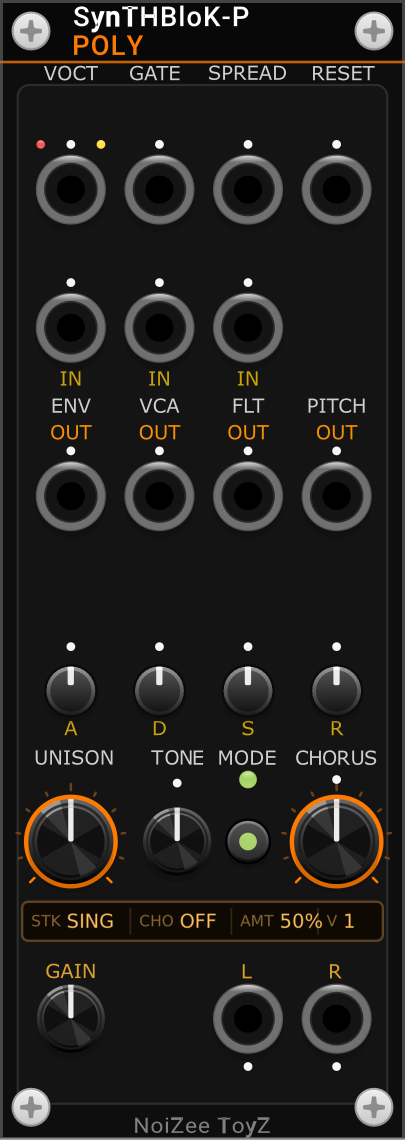
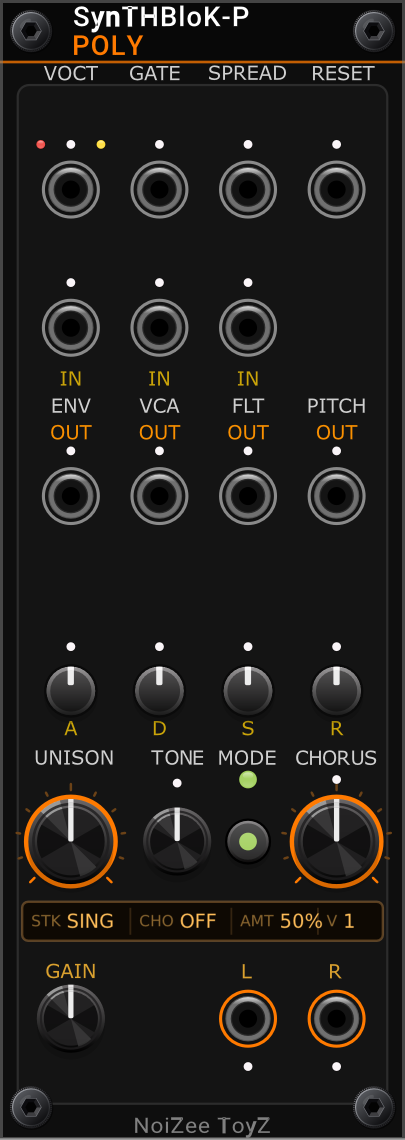
POLY 2.1.1: new jack rings (audio in gold, out orange, others grey)
Claude-Session: https://claude.ai/code/session_0118GTBMnkcZFkLwi5NoL91P

diff --git a/src/OledUi.hpp b/src/OledUi.hpp
@@ -16,18 +16,40 @@
 //    controls beside it (e.g. as tall as a knob's ring)
 #include "plugin.hpp"
 #include <string>
+#include <cmath>
+#include <algorithm>
 
 namespace oled {
 
 static const float kRow = 4.4f;      // info line height, mm
 static const float kCellH = 4.4f;    // button cell height, mm
 
-inline NVGcolor amber(int a = 255) { return nvgRGBA(255, 190, 90, a); }
-inline NVGcolor dim() { return nvgRGBA(255, 190, 90, 130); }
-inline NVGcolor green() { return nvgRGBA(120, 230, 90, 255); }
-inline NVGcolor outline(int a = 80) { return nvgRGBA(255, 180, 90, a); }
-inline NVGcolor litFill() { return nvgRGBA(255, 112, 15, 235); }
-inline NVGcolor offFill() { return nvgRGBA(40, 25, 8, 255); }
+// BACKDROP RECOLOUR step 2 (Nov 20 2026): BACKDROP can hand every NoiZee ToyZ screen its theme colour (off: the usual amber)
+struct Theme { bool on = false; float r = 1.f, g = 0.745f, b = 0.353f; float rot = 0.f, sat = 1.f; };   // (BLOX THEMES: rot / sat)
+inline Theme& theme() { static Theme t; return t; }
+inline NVGcolor accent(int a) { const Theme& t = theme(); return nvgRGBA((int) (t.r * 255.f), (int) (t.g * 255.f), (int) (t.b * 255.f), a); }
+// BLOX THEMES (Nov 20 2026): BLOX's colour turn (themes.js nzShiftRGB): hue + rot, saturation x sat; near-greys stay
+inline NVGcolor shift(NVGcolor c) {
+    const Theme& t = theme();
+    if (t.rot == 0.f && t.sat == 1.f) return c;
+    float R = c.r, G = c.g, B = c.b, mx = std::max(R, std::max(G, B)), mn = std::min(R, std::min(G, B)), l = (mx + mn) * 0.5f, d = mx - mn;
+    if (d < 0.04f) return c;
+    float sv = l > 0.5f ? d / (2.f - mx - mn) : d / (mx + mn), h;
+    if (mx == R) h = ((G - B) / d + (G < B ? 6.f : 0.f)) * 60.f; else if (mx == G) h = ((B - R) / d + 2.f) * 60.f; else h = ((R - G) / d + 4.f) * 60.f;
+    h = std::fmod(std::fmod(h + t.rot, 360.f) + 360.f, 360.f); sv = std::min(1.f, sv * t.sat);
+    float q = l < 0.5f ? l * (1.f + sv) : l + sv - l * sv, p = 2.f * l - q;
+    auto f = [&](float k) { k = k - std::floor(k); return k < 1.f / 6.f ? p + (q - p) * 6.f * k : k < 0.5f ? q : k < 2.f / 3.f ? p + (q - p) * (2.f / 3.f - k) * 6.f : p; };
+    return nvgRGBAf(f(h / 360.f + 1.f / 3.f), f(h / 360.f), f(h / 360.f - 1.f / 3.f), c.a);
+}
+// (BLOX THEMES on the MTX parts) colour makers that follow the BACKDROP theme
+inline NVGcolor tRGB(unsigned char r, unsigned char g, unsigned char b) { return shift(nvgRGB(r, g, b)); }
+inline NVGcolor tRGBA(unsigned char r, unsigned char g, unsigned char b, unsigned char a) { return shift(nvgRGBA(r, g, b, a)); }
+inline NVGcolor amber(int a = 255) { return shift(nvgRGBA(255, 190, 90, a)); }
+inline NVGcolor dim() { return shift(nvgRGBA(255, 190, 90, 130)); }
+inline NVGcolor green() { return shift(nvgRGBA(120, 230, 90, 255)); }
+inline NVGcolor outline(int a = 80) { return shift(nvgRGBA(255, 180, 90, a)); }
+inline NVGcolor litFill() { return shift(nvgRGBA(255, 112, 15, 235)); }
+inline NVGcolor offFill() { return shift(nvgRGBA(40, 25, 8, 255)); }
 inline NVGcolor ink() { return nvgRGBA(20, 10, 2, 255); }
 
 // The display body.
@@ -69,6 +91,23 @@ inline void midiLine(const widget::Widget::DrawArgs& args, midi::Port* port, con
 }
 
 // The port menu a MIDI line opens.
+// The MTX header title, as on MTX-ECHO / MTX-DRUM: "SynTHBloK" in white, the module's name in spaced orange under it,
+// left at 8.5 mm (Nick, Nov 12 2026: every new module's faceplate title matches the others)
+inline void mtxTitle(NVGcontext* vg, const char* name) {
+    std::shared_ptr<window::Font> font = APP->window->uiFont;
+    if (!font) return;
+    nvgFontFaceId(vg, font->handle);
+    nvgTextAlign(vg, NVG_ALIGN_LEFT | NVG_ALIGN_BASELINE);
+    nvgFontSize(vg, 11.f);
+    nvgTextLetterSpacing(vg, 0.f);
+    nvgFillColor(vg, nvgRGB(0xff, 0xff, 0xff));
+    nvgText(vg, mm2px(8.5f), mm2px(3.5f), "SynTHBloK", NULL);
+    nvgFontSize(vg, 10.f);
+    nvgTextLetterSpacing(vg, 0.8f);
+    nvgFillColor(vg, shift(nvgRGB(0xff, 0x7a, 0x00)));
+    nvgText(vg, mm2px(8.5f), mm2px(6.4f), name, NULL);
+    nvgTextLetterSpacing(vg, 0.f);
+}
 inline void midiMenu(midi::Port* port, const char* title) {
     if (!port) return;
     ui::Menu* menu = createMenu();

diff --git a/src/PolyStack.hpp b/src/PolyStack.hpp
@@ -1,0 +1,63 @@
+#pragma once
+// SynTHBloK-POLY's oscillator stack (Nov 2026 "lush" pass). No Rack headers, so tools/sound_check/ renders it.
+//
+// Each stacked interval runs its own phase and is a band-limited (PolyBLEP) saw, a few cents off the others and
+// drifting, so a stack sounds like several real oscillators. Before, every interval was worked out from the
+// voice's one phase (phase x ratio, wrapped): any interval that is not a whole octave (fifths, thirds, 19, 21)
+// jumped back to the start of its wave once per cycle of the root, a hard click at the note's pitch, and none
+// of the saws were band-limited. That was the buzzy, 8-bit edge. The pad sines (half and 1.5x the root) had the
+// same per-cycle kink; they get their own phases too.
+#include <cmath>
+#include <cstdint>
+
+namespace {
+
+struct PolyStackOsc {
+    static constexpr int MAX = 5;
+    float ph[MAX] = {};
+    float bodyPh = 0.f, fifthPh = 0.f;
+    float drift[MAX] = {}, driftTarget[MAX] = {}, driftTimer[MAX] = {};
+    uint32_t rng = 1;
+
+    float rand01() { rng = rng * 1664525u + 1013904223u; return (rng >> 8) * (1.f / 16777216.f); }
+    void seed(uint32_t s) {
+        rng = s * 2654435761u + 12345u;
+        for (int i = 0; i < MAX; i++) ph[i] = rand01();   // free-running: the copies start out of phase
+        bodyPh = rand01(); fifthPh = rand01();
+    }
+    static float blep(float t, float dt) {
+        if (t < dt) { t /= dt; return t + t - t * t - 1.f; }
+        if (t > 1.f - dt) { t = (t - 1.f) / dt; return t * t + t + t + 1.f; }
+        return 0.f;
+    }
+
+    // basePhase: the voice's root phase (0..1) and inc its step per sample. iv / n: the stack's intervals.
+    // shape / sat: the voice's analog bias. Outputs the stack (about +-1), and the two pad sines.
+    void process(float basePhase, float inc, const int* iv, int n, float shape, float sat, float sr,
+                 float& osc, float& sineBody, float& fifth) {
+        float sum = 0.f;
+        for (int i = 0; i < n; i++) {
+            // each copy wanders up to +-2.5 cents, and copies past the root sit +-4 cents apart (alternating)
+            driftTimer[i] -= 1.f / sr;
+            if (driftTimer[i] <= 0.f) { driftTarget[i] = rand01() * 2.f - 1.f; driftTimer[i] = 0.4f + rand01(); }
+            drift[i] += (driftTarget[i] - drift[i]) * (1.5f / sr);
+            float cents = drift[i] * 2.5f + (i == 0 ? 0.f : (i & 1 ? 4.f : -4.f));
+            float ratio = std::exp2((iv[i] * 100.f + cents) / 1200.f);
+            float dt = std::min(inc * ratio, 0.45f);
+            float p = ph[i] + dt;
+            p -= std::floor(p);
+            ph[i] = p;
+            float o = (2.f * p - 1.f - blep(p, dt)) * shape;
+            float s = std::tanh(o * sat);
+            sum += 0.72f * o + 0.28f * s;
+        }
+        osc = sum / (n > 0 ? n : 1);
+        bodyPh += 0.5f * inc; bodyPh -= std::floor(bodyPh);
+        fifthPh += 1.5f * inc; fifthPh -= std::floor(fifthPh);
+        sineBody = std::sin(bodyPh * 2.f * float(M_PI));
+        fifth = std::sin(fifthPh * 2.f * float(M_PI));
+        (void)basePhase;
+    }
+};
+
+} // namespace

diff --git a/src/SynTHBloKPoly.cpp b/src/SynTHBloKPoly.cpp
@@ -2,6 +2,7 @@
 #include "SynTHBloK.hpp"
 #include "SynTHBloKMix24.hpp"
 #include "OledUi.hpp"
+#include "PolyStack.hpp"
 
 // ============================================================================
 // SynTHBloKPoly — Hybrid Polyphonic Engine (Rack 2.6, C++11 compliant)
@@ -143,6 +144,7 @@ struct SynTHBloKPoly : Module {
     float voiceCardBias[MAX_VOICES] = {};
 
     float phaseOffset[MAX_VOICES]   = {};
+    PolyStackOsc stackOsc[MAX_VOICES];
     float shapeBias[MAX_VOICES]     = {};
     float satBias[MAX_VOICES]       = {};
     float filtBias[MAX_VOICES]      = {};
@@ -237,6 +239,7 @@ struct SynTHBloKPoly : Module {
             voiceCardBias[v] = (random::uniform() - 0.5f) * 0.001f;
 
             phaseOffset[v]  = random::uniform() * 0.25f;
+            stackOsc[v].seed((uint32_t)(random::uniform() * 4294967040.f) + v);
             shapeBias[v]    = 0.9f  + (random::uniform() - 0.5f) * 0.10f;
             satBias[v]      = 1.6f  + (random::uniform() - 0.5f) * 0.20f;
             filtBias[v]     = 1.0f  + (random::uniform() - 0.5f) * 0.08f;
@@ -554,25 +557,11 @@ struct SynTHBloKPoly : Module {
             basePhase -= std::floor(basePhase);
 
             // ----------------------------------------------------
-            // HARMONIC STACK ENGINE
+            // HARMONIC STACK ENGINE (PolyStack.hpp: one band-limited, drifting saw per interval, on its own phase)
             // ----------------------------------------------------
-            float oscSum = 0.f;
-            for (int i = 0; i < stackCount; ++i) {
-                int semi = stackIntervals[preset][i];
-                float ratio = std::exp2(semi / 12.f);
-
-                float ph = basePhase * ratio;
-                ph -= std::floor(ph);
-
-                float o = ph * 2.f - 1.f;
-                o *= shapeBias[v];
-
-                float s = tanhf(o * satBias[v]);
-                o = 0.72f * o + 0.28f * s;
-
-                oscSum += o;
-            }
-            float osc = oscSum / std::max(1, stackCount);
+            float osc, sineBody, fifthRaw;
+            stackOsc[v].process(basePhase, freq * dt, stackIntervals[preset], stackCount, shapeBias[v], satBias[v],
+                                sampleRate, osc, sineBody, fifthRaw);
 
             // ----------------------------------------------------
             // FILTER INPUT MIX
@@ -599,9 +588,8 @@ struct SynTHBloKPoly : Module {
             // PAD ENGINE
             // ----------------------------------------------------
             float sineCore = sinf(basePhase * 2.f * M_PI);
-            float sineBody = sinf((basePhase * 0.5f) * 2.f * M_PI);
             float tri      = 4.f * fabsf(basePhase - 0.5f) - 1.f;
-            float fifth    = sinf((basePhase * 1.5f) * 2.f * M_PI) * shimmerBias[v];
+            float fifth    = fifthRaw * shimmerBias[v];
 
             float padMix =
                 voiceOut * 0.55f +

diff --git a/src/plugin.hpp b/src/plugin.hpp
@@ -1,5 +1,6 @@
 #pragma once
 #include "rack.hpp"
+#include <set>
 
 using namespace rack;
 
@@ -44,15 +45,43 @@ extern Model* modelSynTHBloKLoop;
 extern Model* modelSynTHBloKMtxQuad;
 extern Model* modelSynTHBloKDualFilter;
 extern Model* modelSynTHBloKRandroyd;
+extern Model* modelNoizeePatchGen;
+// the module ids PATCH GEN placed (src/NoizeePatchGen.cpp): RANDROYD never patches into them
+std::set<int64_t>& patchGenOwned();
+// ONE RIG: set by a RANDROYD in the rack; PATCH GEN calls it so its patch packs into RANDROYD's rig
+#include <functional>
+std::function<void(history::ComplexAction*)>& randroydPackHook();
 
 // VCV-size jack (23.7 px, the same as Rack's PJ301M): black body with a silver ring.
 // Used on every module but the JAM and MIX-24.
-struct BlackJack : app::SvgPort {
-    BlackJack() { setSvg(APP->window->loadSvg(asset::plugin(pluginInstance, "res/JackBlackSilver.svg"))); }
+// JACK RINGS (Nov 26 2026, Nick): every jack draws its own ring, one size on every module, coloured by what it carries
+// (src/JackRings.hpp: audio in gold, audio out orange, the rest grey). Panels no longer draw jack rings.
+#include "JackRings.hpp"
+struct RingPort : app::SvgPort {
+    int ringKind = -1;   // resolved lazily in draw(): Rack -t screenshots and browser previews draw before any step()
+    void resolveRing() {  // (Gemini review, Nov 26): module may be null there, the ModuleWidget's model is set by then
+        app::ModuleWidget* mw = getAncestorOfType<app::ModuleWidget>();
+        if (mw && mw->model) ringKind = jackrings::kindOf(mw->model->slug, type == engine::Port::OUTPUT, portId);
+    }
+    void draw(const DrawArgs& args) override {
+        app::SvgPort::draw(args);   // jack + its shadow first, so the ring stays crisp (it clears the 2.5 mm jack body)
+        if (ringKind < 0) resolveRing();
+        nvgBeginPath(args.vg);
+        nvgCircle(args.vg, box.size.x * 0.5f, box.size.y * 0.5f, mm2px(jackrings::RING_R_MM));
+        nvgStrokeWidth(args.vg, mm2px(jackrings::RING_W_MM));
+        nvgStrokeColor(args.vg, jackrings::colour(ringKind < 0 ? jackrings::GREY : (jackrings::Kind)ringKind));
+        nvgStroke(args.vg);
+    }
+};
+
+struct BlackJack : RingPort {
+    // (Nov 14 2026, Nick: "make all the jacks match small jacks": every module's jacks are the 5.2 mm small jack now; the
+    // 8 mm black / silver art stays in res/ in case it comes back. Jacks are placed by their centre, so they stay put.)
+    BlackJack() { setSvg(APP->window->loadSvg(asset::plugin(pluginInstance, "res/JackSmall.svg"))); }
 };
 
 // Small version of BlackJack (5.2 mm), for the JAM and MIX-24 modules.
-struct SmallJack : app::SvgPort {
+struct SmallJack : RingPort {
     SmallJack() { setSvg(APP->window->loadSvg(asset::plugin(pluginInstance, "res/JackSmall.svg"))); }
 };
 

diff --git a/src/JackRings.hpp b/src/JackRings.hpp
@@ -1,0 +1,60 @@
+#pragma once
+// JACK RINGS (Nov 26 2026, Nick): every jack gets ONE ring, same size on every module (r 3.1 mm, line 0.35 mm, the old
+// STEREO PHASER CV ring), coloured by what it carries: audio IN gold #f2b632, audio OUT orange #ff7a00, everything else
+// grey #8a8a8a. Drawn by the jack widget (BlackJack / SmallJack in plugin.hpp); panels no longer draw jack rings.
+// The table lists only AUDIO ports (enum index = configInput / configOutput order); anything not listed is grey.
+// Sidechain inputs count as audio, FM inputs do not (Nick, Nov 26). Keyed by model slug (same in the paid plugin and singles).
+#include <rack.hpp>
+#include <string>
+#include <vector>
+#include <cstring>
+
+namespace jackrings {
+struct Entry { const char* slug; std::vector<int> in, out; };
+inline const std::vector<Entry>& table() {
+    static const std::vector<Entry> t = {
+        {"MatrixForge", {0,1}, {0,1}},
+        {"Duo", {3,4}, {0,1,2,3}},
+        {"Drum", {3,4}, {0,1,10,11,12,13,14,15,16,17,28,29}},
+        {"MtxQuad", {9,11}, {0,1,2,3,5,6,7,8,9}},
+        {"Quad", {9,11}, {0,1,2,3,5,6,7,8,9}},
+        {"MatrixFx", {0,1,2,3,4,5,6,7,11}, {0,1}},
+        {"Echo", {0,1}, {0,1}},
+        {"Loop", {0,1,2,3,4,5,6,7}, {0,1,2,3,4,5,6,7,8,9}},
+        {"GlitchEcho", {0,1}, {0,1}},
+        {"Grit", {0,1}, {0,1}},
+        {"Stereo", {0}, {0,1}},
+        {"Matrix8", {}, {17,18}},
+        {"Kick", {}, {0,1}},
+        {"SnareHat", {}, {0,1,2}},
+        {"Resonator", {4,5}, {0,1,3}},
+        {"Poly", {}, {0,1}},
+        {"Pulse", {}, {0}},
+        {"DualFilter", {0,1}, {0,1,2,3}},
+        {"NoizeeFlagshipFilter", {16,17}, {0,1}},
+        {"FX", {9,10}, {0,1,2}},
+        {"GrainForge", {0,1}, {0,1}},
+        {"BlokMaster", {0,1,2}, {0,1}},
+        {"Mix24", {6,7,8,9,10,11,12,13,14,15,16,17,18,19}, {0,1,2,3}},
+        {"Mix8", {6,7,8,9,10,11,12,13,14,15,16,17,18,19,20,21,22,23}, {0,1,2,3}},
+        {"Mix12", {6,7,8,9,10,11,12,13,14,15,16,17,18,19,20,21,22,23,24,25,26,27,28,29,30,31}, {0,1,2,3}},
+        {"ToyBox", {}, {3,4}},
+    };
+    return t;
+}
+enum Kind { GREY = 0, AUDIO_IN = 1, AUDIO_OUT = 2 };
+inline Kind kindOf(const std::string& slug, bool out, int id) {
+    for (const Entry& e : table()) {
+        if (slug != e.slug) continue;
+        for (int v : (out ? e.out : e.in)) if (v == id) return out ? AUDIO_OUT : AUDIO_IN;
+        return GREY;
+    }
+    return GREY;
+}
+inline NVGcolor colour(Kind k) {
+    if (k == AUDIO_IN)  return nvgRGB(0xf2, 0xb6, 0x32);
+    if (k == AUDIO_OUT) return nvgRGB(0xff, 0x7a, 0x00);
+    return nvgRGB(0x8a, 0x8a, 0x8a);
+}
+constexpr float RING_R_MM = 3.1f, RING_W_MM = 0.35f;
+}  // namespace jackrings
